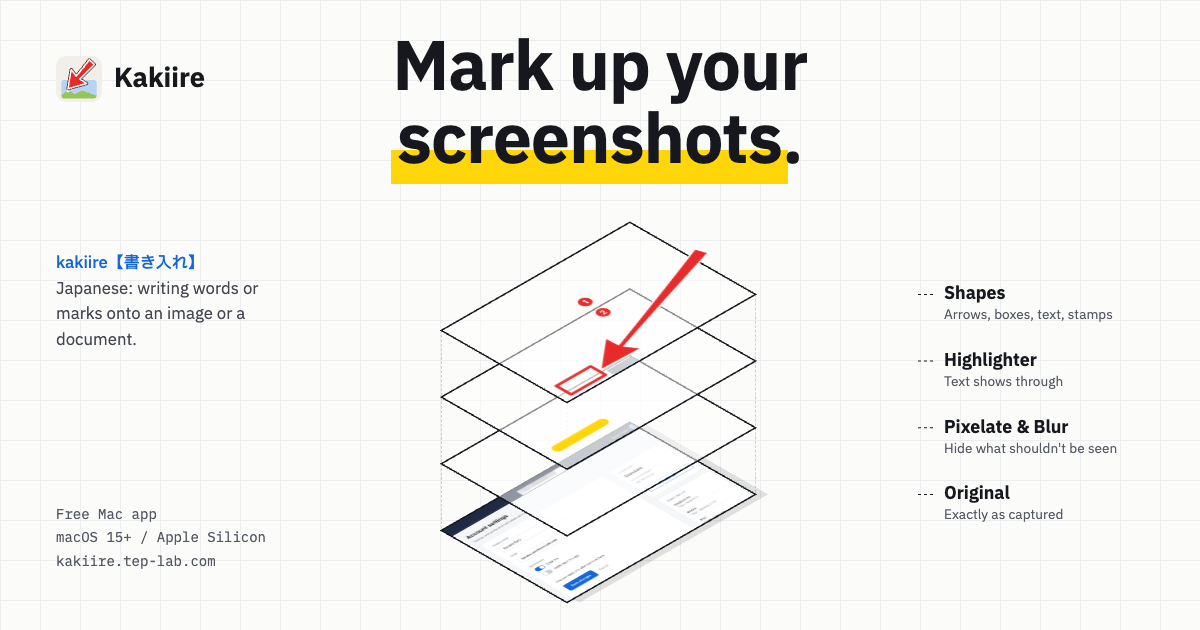
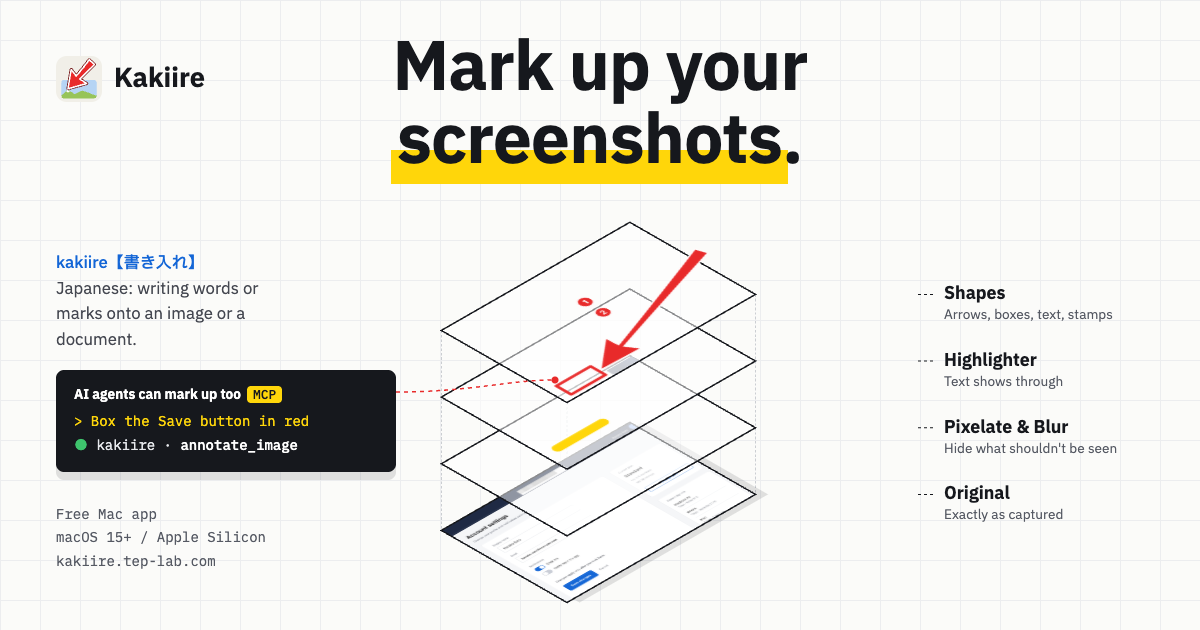
LP のファーストビューと OGP 画像で、AI(MCP)からも使えることを知らせる

Changed region(s): [[0.0308, 0.573, 0.3392, 0.7841]]

diff --git a/scripts/og/og.html b/scripts/og/og.html
@@ -43,6 +43,14 @@
   .og-label { position: absolute; left: 944px; width: 200px; display: flex; flex-direction: column; }
   .og-label b { font-size: 17px; font-weight: 700; line-height: 1.4; }
   .og-label span { font-size: 13px; line-height: 1.4; color: var(--muted); }
+
+  /* 左の空きに、AI から頼む例を置く。層の図の左の角(x 約 440)にかからない幅にする */
+  .og-ai { position: absolute; left: 56px; top: 370px; width: 340px; margin: 0; padding: 14px 18px;
+    border-radius: 8px; background: var(--ink); box-shadow: 0 8px 0 var(--shadow); color: #e8eaee;
+    font-family: var(--mono); font-size: 14px; line-height: 1.7; }
+  .og-ai b { font-weight: 500; color: #fff; }
+  .og-ai__label { display: block; margin-bottom: 4px; font-family: var(--sans); font-size: 13px; font-weight: 700; color: #fff; }
+  .og-ai__label i { font-style: normal; margin-left: 6px; padding: 0 6px; border-radius: 4px; background: var(--yellow); color: var(--ink); font-family: var(--mono); font-weight: 500; }
 </style>
 </head>
 <body>
@@ -51,6 +59,8 @@
     <p class="dict" data-ja='<span class="dict__word">かきいれ【書き入れ】</span>画像や書類に、文字や印を書き加えること。' data-en='<span class="dict__word">kakiire【書き入れ】</span>Japanese: writing words or marks onto an image or a document.'></p>
     <p class="og-meta" data-ja="無料の Mac アプリ<br>macOS 15+ / Apple Silicon<br>kakiire.tep-lab.com" data-en="Free Mac app<br>macOS 15+ / Apple Silicon<br>kakiire.tep-lab.com"></p>
   </div>
+
+  <p class="og-ai" data-ja='<span class="og-ai__label">AI からも書き入れ<i>MCP</i></span><span class="term__you">&gt; 保存ボタンを赤枠で囲んで</span><br><span class="term__tool">●</span> kakiire · <b>annotate_image</b>' data-en='<span class="og-ai__label">AI agents can mark up too<i>MCP</i></span><span class="term__you">&gt; Box the Save button in red</span><br><span class="term__tool">●</span> kakiire · <b>annotate_image</b>'></p>
 
   <h1 class="og-head" data-ja='スクショに<br><span class="h1-bracket">「</span><span class="hl">書き入れ</span>」。' data-en='Mark up your<br><span class="hl">screenshots</span>.'></h1>
 
@@ -73,6 +83,12 @@
       <rect class="sheet" width="420" height="280"/>
       <image data-src="hero-shapes.png" width="487.88" height="280" preserveAspectRatio="none"/>
     </g>
+  </svg>
+
+  <!-- AI の例から、層の図の赤枠へ点線を引く(AI が描いた枠だと分かるように) -->
+  <svg class="og-ai-link" width="1200" height="630" aria-hidden="true" style="position:absolute;left:0;top:0;pointer-events:none">
+    <path d="M396 392 C 470 392, 510 380, 552 380" fill="none" stroke="var(--red)" stroke-width="1.5" stroke-dasharray="4 4"/>
+    <circle cx="555" cy="380" r="3.5" fill="var(--red)"/>
   </svg>
 
   <!-- 層の名前。各層の右の角の高さ(層の図の座標 y)に置く。点線は正方形の切り抜き(x 285〜915)の外だけに引く -->

diff --git a/site/style.css b/site/style.css
@@ -297,6 +297,42 @@ h3 {
   gap: 12px 20px;
 }
 
+/* ファーストビューで、AI(MCP)からも使えることを知らせる。07 の節へ飛ぶ */
+.hero-ai {
+  display: inline-flex;
+  align-items: center;
+  gap: 10px;
+  align-self: flex-start;
+  max-width: 100%;
+  padding: 8px 14px 8px 8px;
+  border-radius: 8px;
+  background: var(--ink);
+  color: #e8eaee;
+  font-size: 15px;
+  line-height: 1.5;
+  text-decoration: none;
+}
+
+.hero-ai__badge {
+  flex: none;
+  padding: 1px 7px;
+  border-radius: 4px;
+  background: var(--yellow);
+  color: var(--ink);
+  font-family: var(--mono);
+  font-size: 13px;
+  font-weight: 500;
+}
+
+.hero-ai__arrow {
+  flex: none;
+  transition: transform 0.15s;
+}
+
+.hero-ai:hover .hero-ai__arrow {
+  transform: translateX(3px);
+}
+
 /* 層の図 */
 
 .stack {

diff --git a/site/index.html b/site/index.html
@@ -73,6 +73,7 @@
         <a class="btn" href="https://github.com/sumihiro3/kakiire/releases/latest/download/Kakiire.dmg">ダウンロード</a>
         <span class="meta">無料 / macOS 15+ / Apple Silicon / v<span data-version>0.11.0</span></span>
       </div>
+      <a class="hero-ai" href="#agents"><span class="hero-ai__badge">MCP</span><span>Claude Code などの AI からも書き入れられます</span><span class="hero-ai__arrow" aria-hidden="true">→</span></a>
     </div>
 
     <figure class="stack">

diff --git a/site/en/index.html b/site/en/index.html
@@ -60,6 +60,7 @@
         <a class="btn" href="https://github.com/sumihiro3/kakiire/releases/latest/download/Kakiire.dmg">Download</a>
         <span class="meta">Free / macOS 15+ / Apple Silicon / v<span data-version>0.11.0</span></span>
       </div>
+      <a class="hero-ai" href="#agents"><span class="hero-ai__badge">MCP</span><span>AI agents like Claude Code can mark up images too</span><span class="hero-ai__arrow" aria-hidden="true">→</span></a>
     </div>
 
     <figure class="stack">
